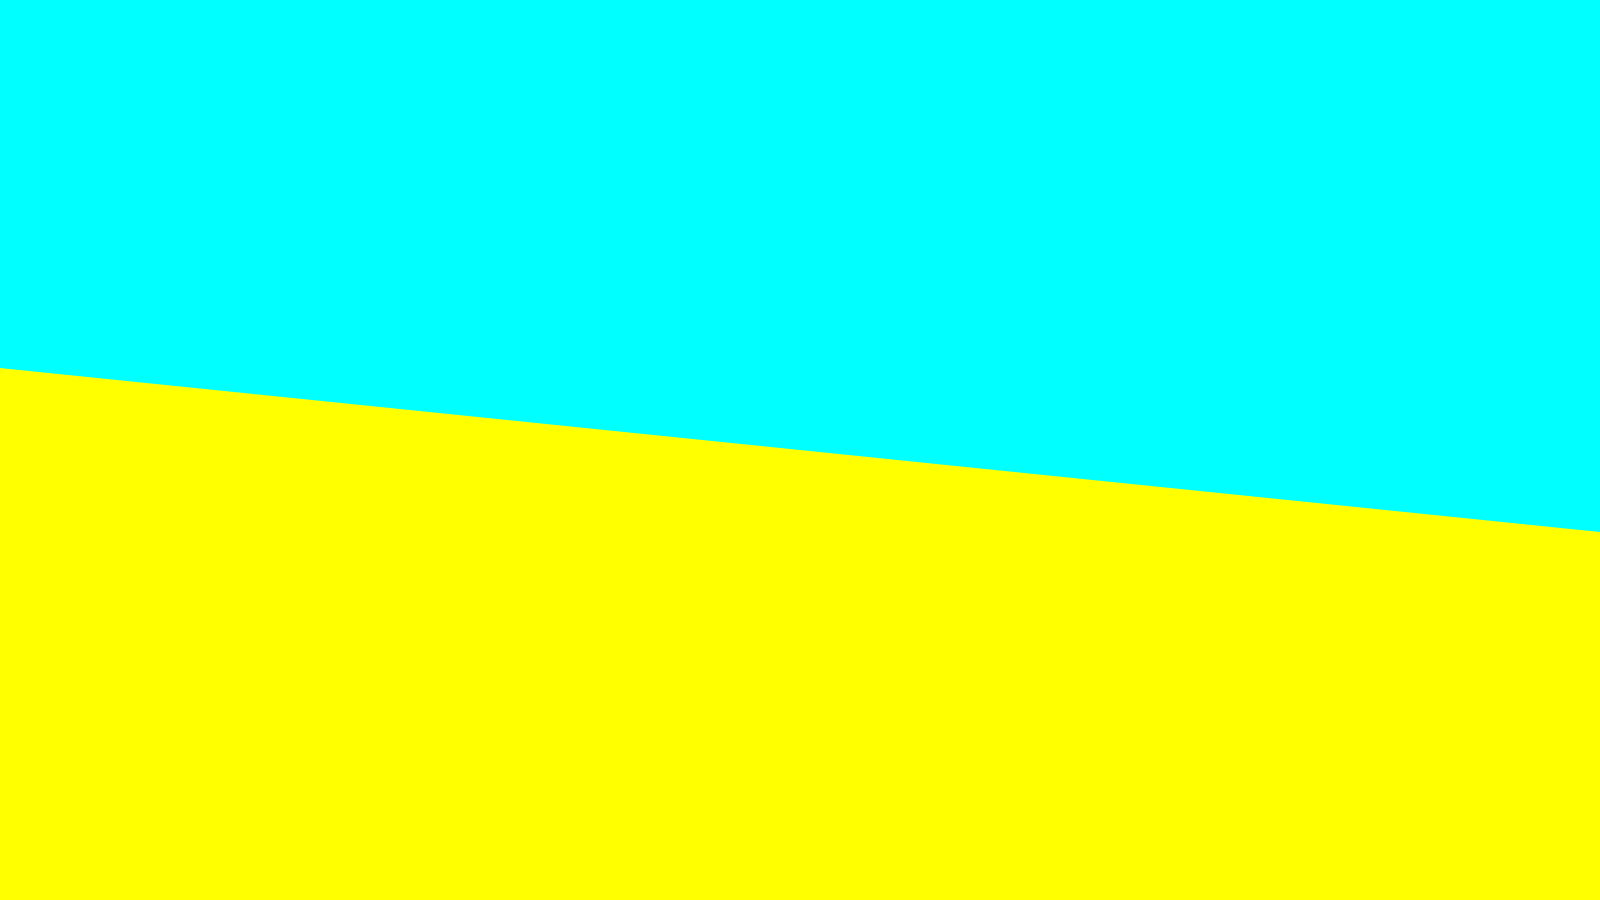
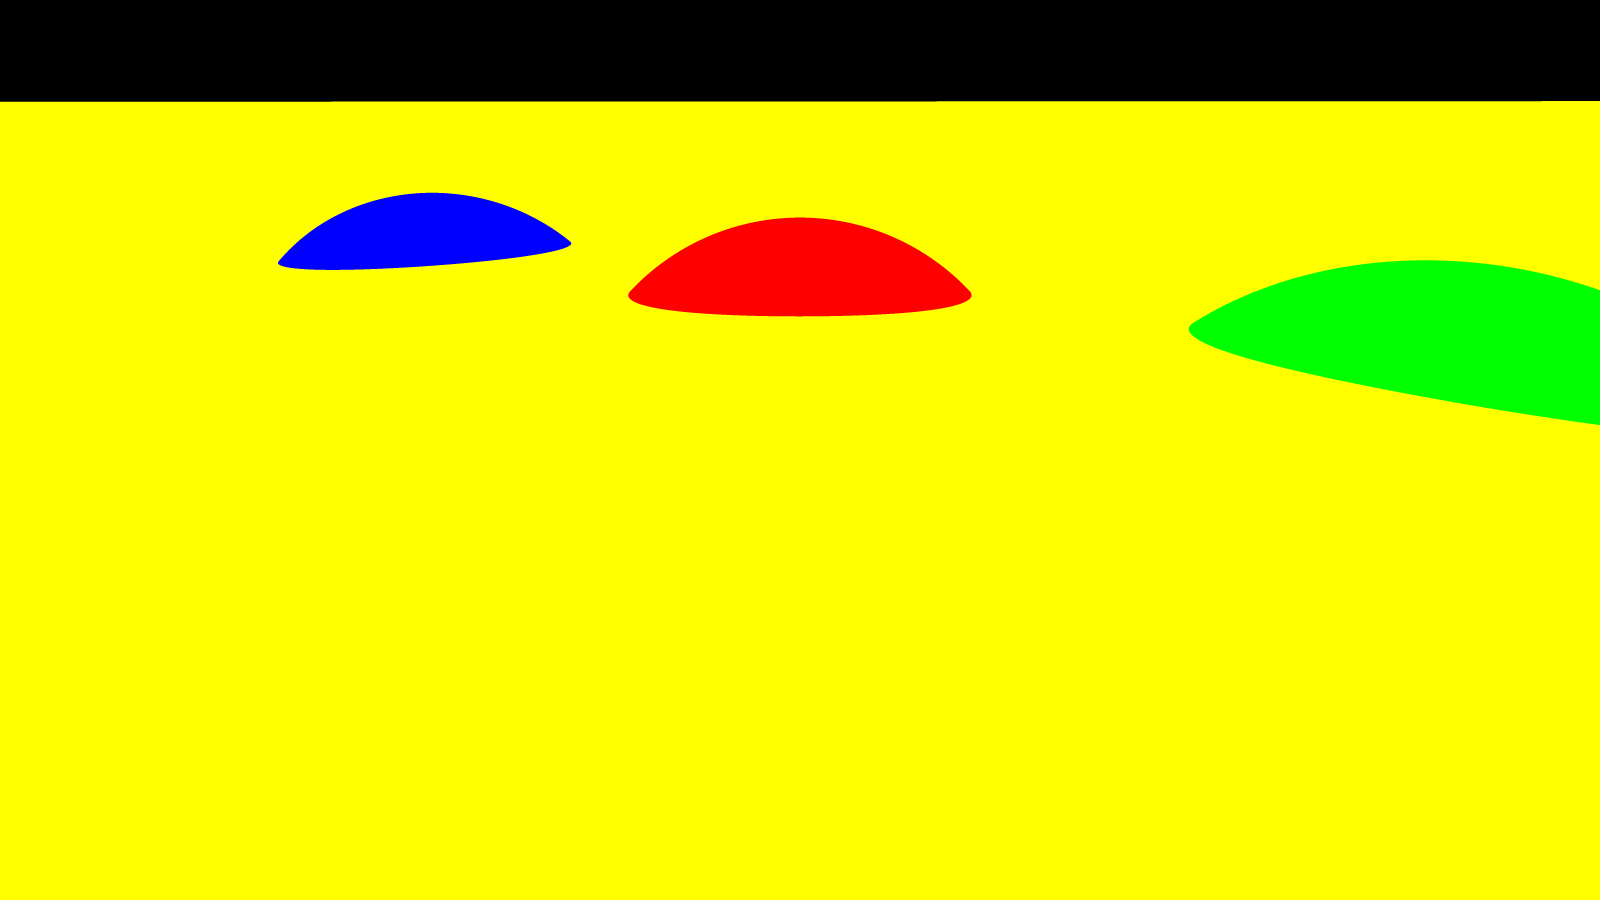
Pruebas de posicion en camara y figuras

diff --git a/src/scene/World.java b/src/scene/World.java
@@ -24,13 +24,13 @@ public class World {
     
     public World(int width, int height, double size){
         viewplane = new ViewPlane(width, height, size);
-        background = new Color(0.0F, 1.0F, 1.0F);
+        background = new Color(0.0F, 0.0F, 0.0F);
     
         objects = new ArrayList<GeometricObject>();
-        objects.add(new Sphere(new Point3D(0.0, 0.0, 0.0),50, new Color(1.0F, 0.0F, 0.0F)));
-        objects.add(new Sphere(new Point3D(-150.0, 0.0, 0.0),50, new Color(0.0F, 1.0F, 0.0F)));
-        objects.add(new Sphere(new Point3D(150.0, 0.0, 0.0),50, new Color(0.0F, 0.0F, 1.0F)));
-        objects.add(new Plane(new Point3D(0.0, 0.0, 0.0), new Normal(0.0, 1.0, 0.3), new Color(1.0F, 1.0F, 0.0F)));
+        objects.add(new Sphere(new Point3D(0.0, 0.0, 0.0),70, new Color(1.0F, 0.0F, 0.0F)));
+        objects.add(new Sphere(new Point3D(150.0, 0.0, 0.0),70, new Color(0.0F, 1.0F, 0.0F)));
+        objects.add(new Sphere(new Point3D(-150.0, 0.0, 0.0),70, new Color(0.0F, 0.0F, 1.0F)));
+        objects.add(new Plane(new Point3D(0.0, 0.0, 0.0), new Normal(0.0, 1.0, 0.0), new Color(1.0F, 1.0F, 0.0F)));
     
     }
     

diff --git a/src/proyectoraytracing/main/Driver.java b/src/proyectoraytracing/main/Driver.java
@@ -44,7 +44,7 @@ public class Driver {
         tracer = new Tracer();
         sampler = new RegularSample(4);
         projection = new Orthographic();
-        projection = new Perspective(new Point3D(-200.0,200.0,600), new Point3D(0.0,0.0,0.0), 90.0);
+        projection = new Perspective(new Point3D(100.0,100.0,200.0), new Point3D(0.0,0.0,0.0), 150.0);
         for(int y=0;y < world.viewplane.height ; y++){
             for(int x=0; x < world.viewplane.width ; x++){
                 tracer.trace(x, y);
